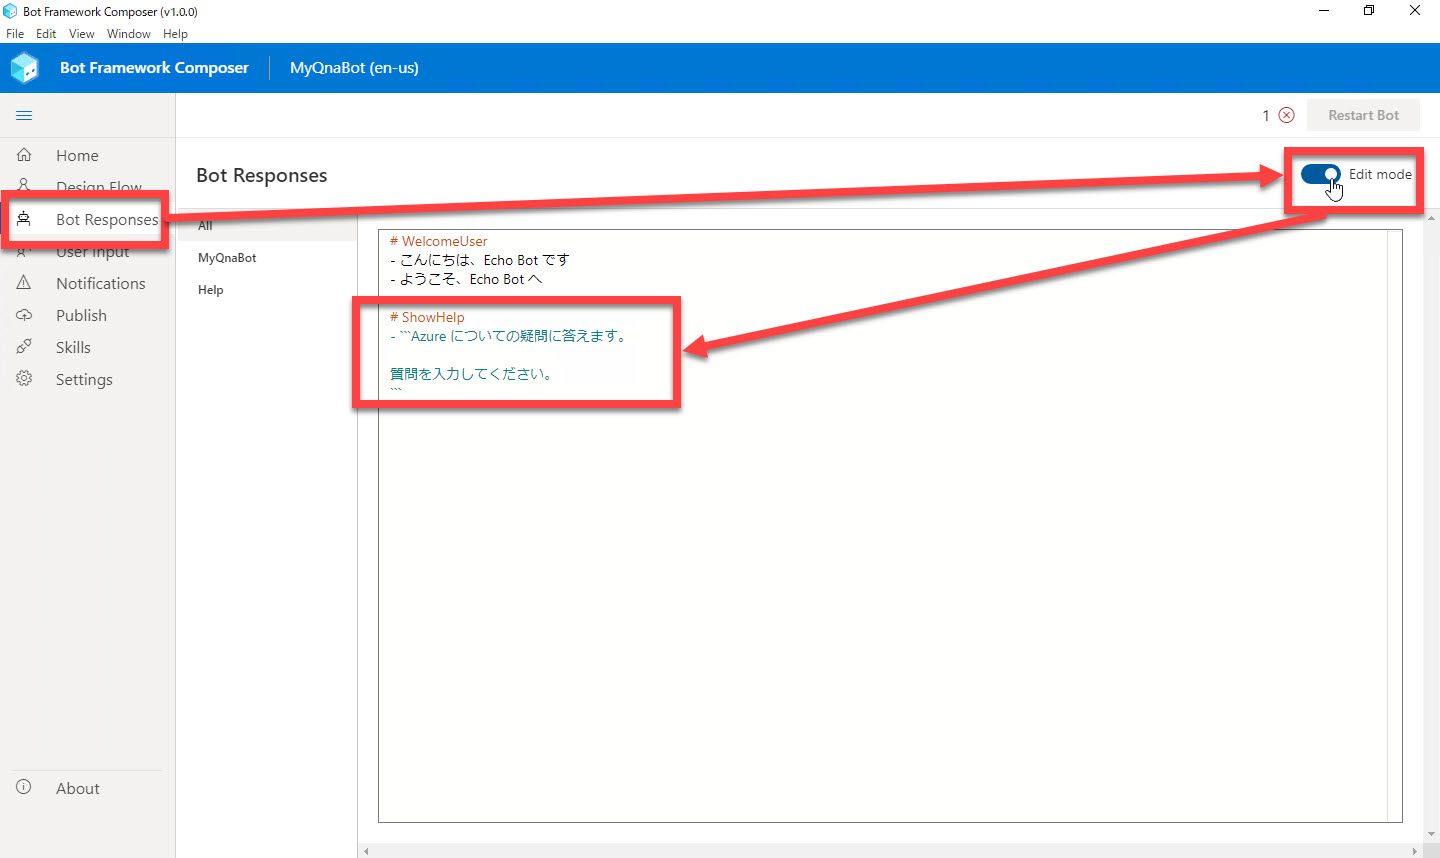
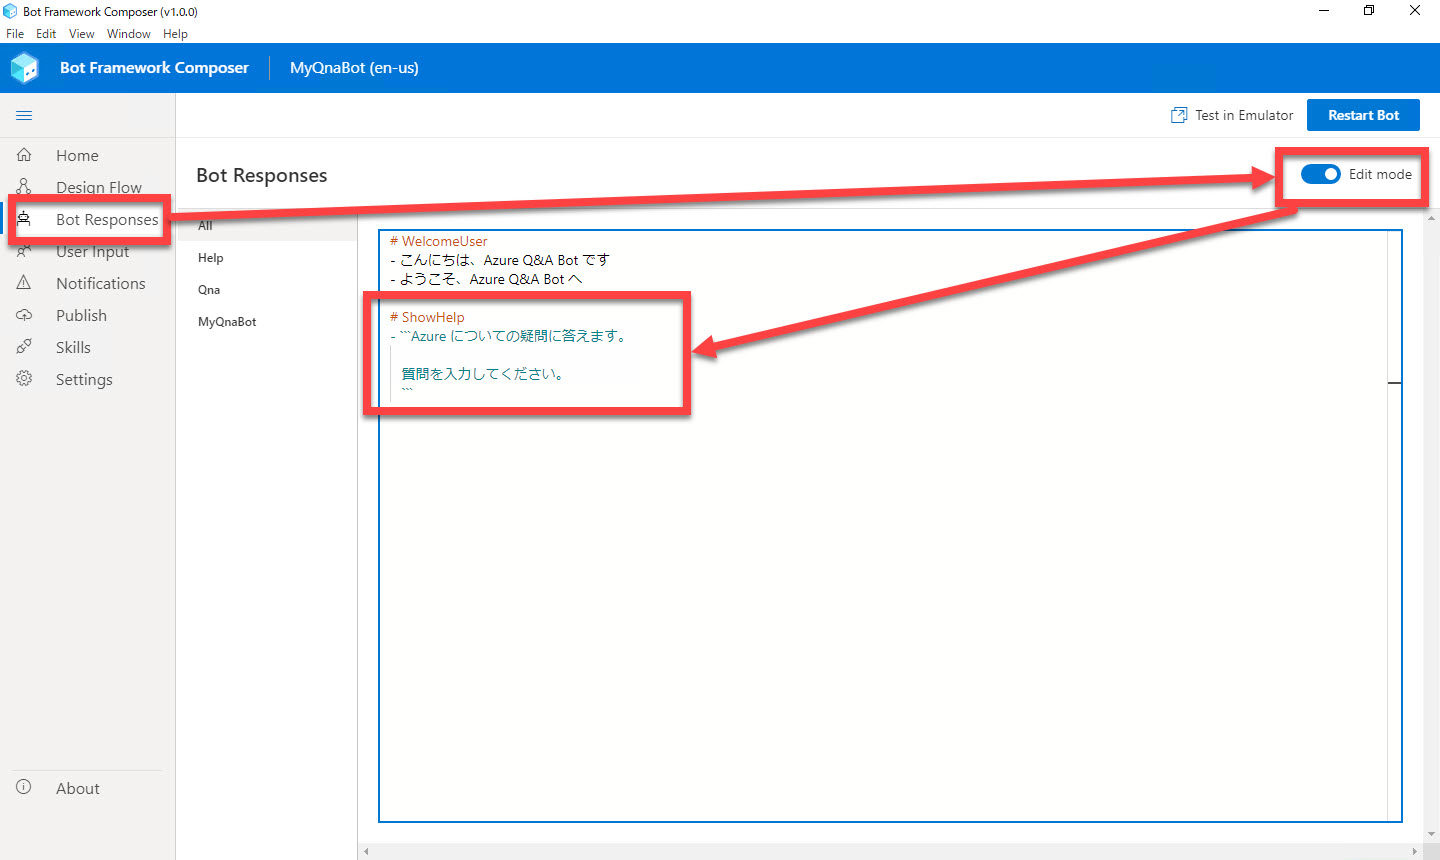
Add explanation of Welcome message
挨拶メッセージの変更手順を追加

diff --git a/docs/03_composer_basic2.md b/docs/03_composer_basic2.md
@@ -138,20 +138,28 @@ Bot にヘルプメッセージを応答する機能を追加します。
 
    > **```** (バッククォート 3個) で囲むことで、複数行メッセージを定義できます。
 
-2. [**Dialog Flow**] - [**+ Add**] - [**Add new dialog**] を選択します。  
+2. ここで "**WelcomeUser**" の定義も変更しておきます。
+
+   ```txt
+   # WelcomeUser
+   - こんにちは、Azure Q&A Bot です
+   - ようこそ、Azure Q&A Bot へ
+   ```
+
+3. [**Dialog Flow**] - [**+ Add**] - [**Add new dialog**] を選択します。  
 
    <img src="./images/03/bfcomp_add_new_dialog.jpg" width="540px" />
 
-3. [**Name**] にダイアログの名前を入力します。  
+4. [**Name**] にダイアログの名前を入力します。  
    今回は "**Help**" とします。
 
    <img src="./images/03/bfcomp_help_dialog_name.jpg" width="540px" />
 
-4. [**+**] をクリックして、続いて [**Send a message**] をクリックします。
+5. [**+**] をクリックして、続いて [**Send a message**] をクリックします。
 
    ![](./images/03/bfcomp_help_add_send_res.jpg)
 
-5. [**Send a response**] をクリックして、Property の [**Language Generation**] に以下を入力します。
+6. [**Send a response**] をクリックして、Property の [**Language Generation**] に以下を入力します。
 
    ```txt
    - ${ShowHelp()}
@@ -213,11 +221,11 @@ Bot Framework Emulator で動作を見てみます。
    |入力|応答|
    |---|---|
    |（※対話開始時）|"こんにちは、Echo Bot です" または "ようこそ、Echo Bot へ"|
-   |help|ユーザーの入力をオウム返しします|
-   |Help|ユーザーの入力をオウム返しします|
-   |HELP|ユーザーの入力をオウム返しします|
-   |ヘルプ|ユーザーの入力をオウム返しします|
-   |使い方|ユーザーの入力をオウム返しします|
+   |help|Azure についての質問に答えます|
+   |Help|Azure についての質問に答えます|
+   |HELP|Azure についての質問に答えます|
+   |ヘルプ|Azure についての質問に答えます|
+   |使い方|Azure についての質問に答えます|
    |任意の入力|「(入力した内容)」と言いましたね|
 
    ![](./images/03/bfemu_test_help.jpg)
